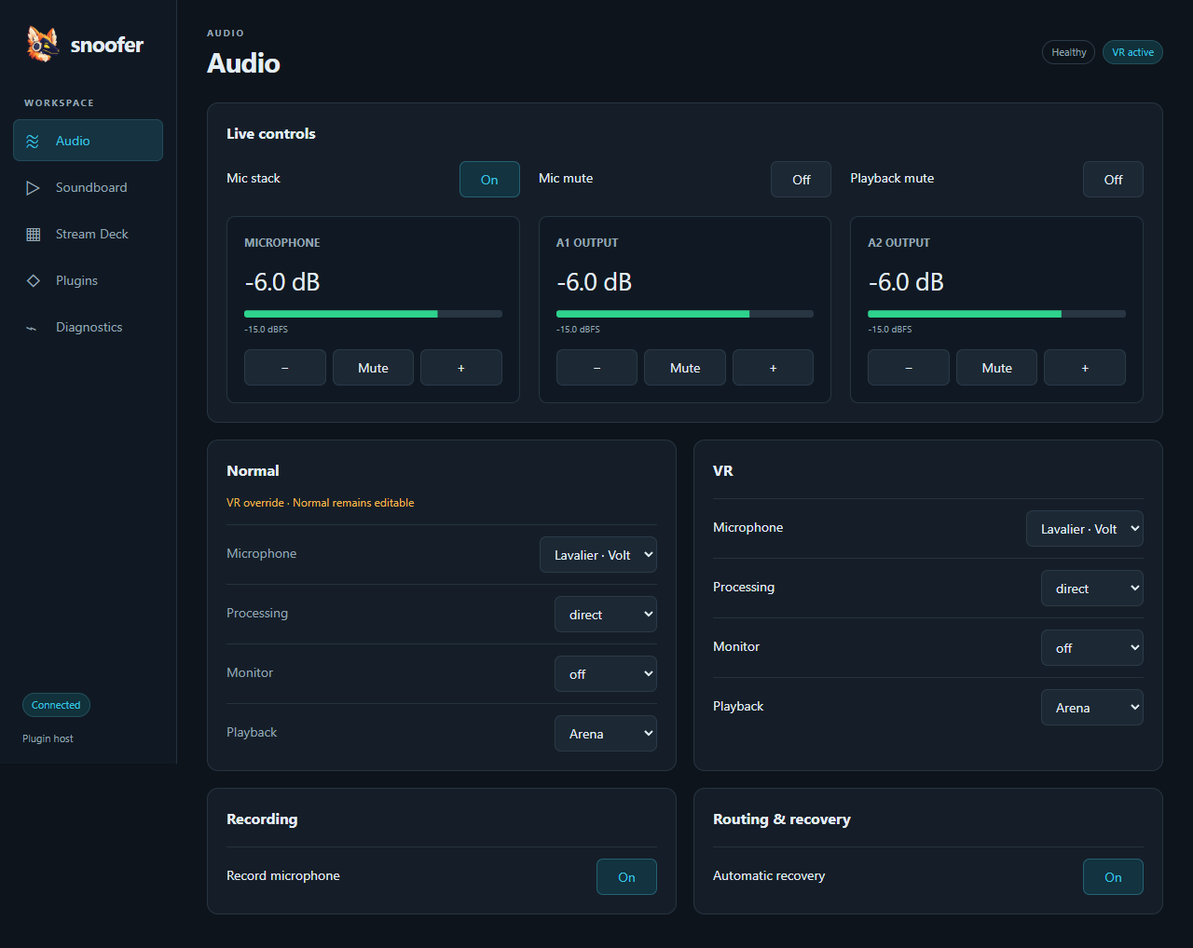
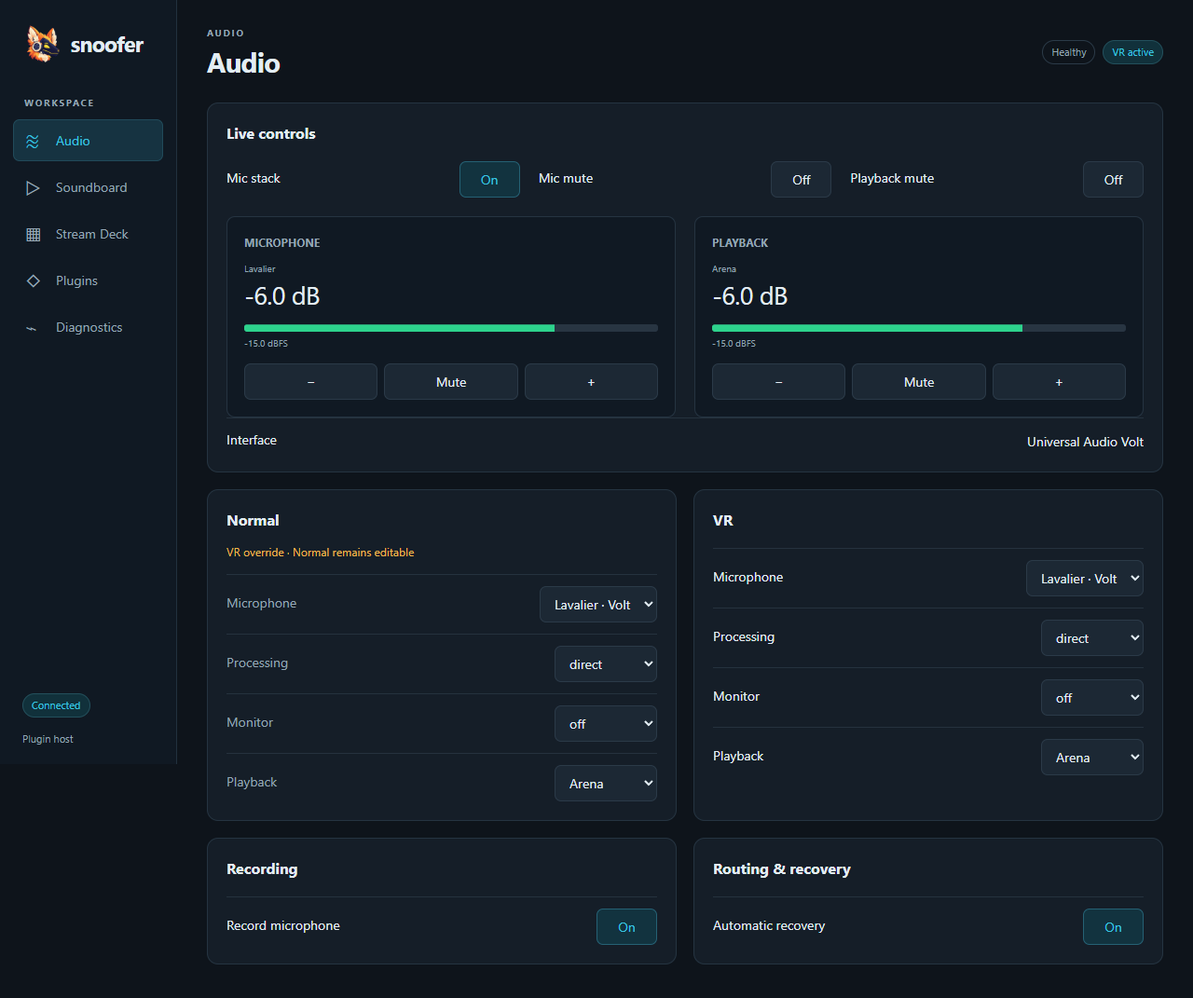
feat(ui): replace output buses with Playback controls

diff --git a/app/web/style.css b/app/web/style.css
@@ -3,7 +3,7 @@ body{margin:0;background:var(--bg);color:var(--text);font:14px/1.5 "Segoe UI",sa
 button,input,select{font:inherit;color:inherit} button,select,input{border:1px solid var(--line);border-radius:7px;background:var(--raised);padding:8px 11px} button{cursor:pointer;transition:background .12s}button:hover{background:#293b4b}button:disabled,select:disabled,input:disabled{opacity:.5;cursor:default} :focus-visible{outline:2px solid var(--cyan);outline-offset:3px} input:focus,select:focus{border-color:var(--cyan)} button.primary{background:var(--cyan);color:#06232b;border-color:transparent;font-weight:650}button.danger{color:var(--red)}button.small{padding:5px 9px}
 .sidebar{width:190px;flex-shrink:0;padding:26px 14px 18px;background:#101923;border-right:1px solid #21313e;height:100vh;position:sticky;top:0;display:flex;flex-direction:column}.brand{display:flex;align-items:center;gap:10px;font-size:23px;letter-spacing:-.7px;margin:0 10px 35px}.brandmark{width:42px;height:42px;object-fit:contain}.nav-caption,.eyebrow{font-size:10px;letter-spacing:1.7px;font-weight:650;color:var(--muted)}.nav-caption{margin:0 12px 10px}nav{display:grid;gap:5px}nav button{text-align:left;background:transparent;border-color:transparent;padding:11px 12px;color:var(--muted);display:flex;gap:13px;align-items:center}nav button span{font-size:21px;width:20px;line-height:1}nav button[aria-current="page"]{color:var(--cyan);background:#163341;border-color:#214a5a}.sidebar-foot{margin-top:auto;padding:20px 10px 0}.sidebar-foot small{display:block;color:var(--muted);font-size:11px;margin-top:14px;line-height:1.6}
 main{flex:1;min-width:0;padding:28px 32px 36px}header{display:flex;align-items:center;justify-content:space-between;gap:16px;margin-bottom:26px}h1{font-size:29px;letter-spacing:-.7px;line-height:1.2;margin:6px 0 0}h2{font-size:16px;margin:0;font-weight:650}h3{font-size:13px;margin:0 0 10px}.header-status{display:flex;gap:8px;align-items:center;flex-wrap:wrap}.badge{font-size:11px;border:1px solid var(--line);padding:4px 9px;border-radius:20px;color:var(--muted);display:inline-block}.active{color:var(--cyan)}.badge.active{background:#11313b;border-color:#23505c}.attention{color:var(--amber)}.critical{color:var(--red)}.muted{color:var(--muted)}
-#notice{padding:12px 16px;border:1px solid #7b4a42;background:#332329;border-radius:8px;margin-bottom:18px;white-space:pre-wrap;color:#ffb7a9;overflow-wrap:anywhere}#notice button{float:right;margin-left:12px}.grid{display:grid;grid-template-columns:repeat(2,minmax(0,1fr));gap:18px}.panel{background:var(--panel);border:1px solid #253441;border-radius:12px;padding:20px;min-width:0}.panel-head{display:flex;align-items:center;justify-content:space-between;gap:10px;margin-bottom:18px}.panel-head small{color:var(--muted)}.wide{grid-column:1/-1}.control-row{display:flex;align-items:center;justify-content:space-between;gap:18px;padding:12px 0;border-top:1px solid #25323e}.control-row:first-child{border-top:0;padding-top:0}.control-row:last-child{padding-bottom:0}.control-label{flex:1;min-width:0}.control-label small{display:block;font-size:11px;margin-top:4px;overflow-wrap:anywhere}.control-row select{max-width:58%;min-width:110px}.text-edit{display:flex;gap:7px;max-width:65%;min-width:0}.text-edit input{flex:1}.control-row input{min-width:0;max-width:200px;width:100%}.control-row .value{overflow-wrap:anywhere;max-width:65%;text-align:right}.toggle{min-width:65px}.toggle[aria-pressed="true"]{color:var(--cyan);background:#12333f;border-color:#256174}.toggle.critical[aria-pressed="true"]{color:var(--red);background:#39252e;border-color:#76424e}.subdued .control-label{color:var(--muted)}.section-note{margin:-5px 0 15px;color:var(--amber);font-size:12px}.quick-controls{display:grid;grid-template-columns:repeat(3,minmax(0,1fr));gap:20px;margin-bottom:20px}.quick-controls .control-row{border:0;padding:0}.strip-grid{display:grid;grid-template-columns:repeat(3,minmax(0,1fr));gap:20px}.strip{background:#101923;border:1px solid #253441;border-radius:9px;padding:18px}.strip h3{font-size:12px;color:var(--muted);margin:0 0 12px}.gain-readout{font-size:27px;letter-spacing:-.5px;font-variant-numeric:tabular-nums}.gain-buttons{display:flex;gap:7px;margin-top:14px}.gain-buttons button{flex:1}.level{height:8px;border-radius:3px;background:#283542;position:relative;overflow:hidden;margin-top:12px}.level-signal{height:100%;width:0;background:linear-gradient(90deg,#2dd28c 0%,#2dd28c 76%,#f5be3c 80%,#ff5a64 98%);clip-path:inset(0 100% 0 0);width:100%}.meter-label{color:var(--muted);font-size:10px;font-variant-numeric:tabular-nums;margin-top:5px}.actions,.toolbar{display:flex;gap:8px;align-items:center;flex-wrap:wrap}.toolbar{margin-bottom:18px}.toolbar input[type=search]{flex:1;min-width:170px}.empty{padding:45px 25px;border:1px dashed var(--line);border-radius:12px;text-align:center;color:var(--muted)}.clip-grid{display:grid;grid-template-columns:repeat(auto-fill,minmax(145px,1fr));gap:14px}.clip{position:relative;display:flex;flex-direction:column;align-items:flex-start;text-align:left;min-height:168px;padding:16px;background:var(--panel);border-radius:12px}.clip-art{height:70px;display:grid;place-items:center;width:100%;margin-bottom:12px;font-size:37px;color:var(--cyan)}.clip-art img{height:64px;width:64px;object-fit:contain}.clip strong{font-size:13px;overflow-wrap:anywhere}.clip small{font-size:11px;color:var(--muted);margin-top:5px}.clip.playing{border-color:var(--cyan);background:#12303a}.clip.error{border-color:var(--red)}.clip.wait{border-color:var(--amber)}
+#notice{padding:12px 16px;border:1px solid #7b4a42;background:#332329;border-radius:8px;margin-bottom:18px;white-space:pre-wrap;color:#ffb7a9;overflow-wrap:anywhere}#notice button{float:right;margin-left:12px}.grid{display:grid;grid-template-columns:repeat(2,minmax(0,1fr));gap:18px}.panel{background:var(--panel);border:1px solid #253441;border-radius:12px;padding:20px;min-width:0}.panel-head{display:flex;align-items:center;justify-content:space-between;gap:10px;margin-bottom:18px}.panel-head small{color:var(--muted)}.wide{grid-column:1/-1}.control-row{display:flex;align-items:center;justify-content:space-between;gap:18px;padding:12px 0;border-top:1px solid #25323e}.control-row:first-child{border-top:0;padding-top:0}.control-row:last-child{padding-bottom:0}.control-label{flex:1;min-width:0}.control-label small{display:block;font-size:11px;margin-top:4px;overflow-wrap:anywhere}.control-row select{max-width:58%;min-width:110px}.text-edit{display:flex;gap:7px;max-width:65%;min-width:0}.text-edit input{flex:1}.control-row input{min-width:0;max-width:200px;width:100%}.control-row .value{overflow-wrap:anywhere;max-width:65%;text-align:right}.toggle{min-width:65px}.toggle[aria-pressed="true"]{color:var(--cyan);background:#12333f;border-color:#256174}.toggle.critical[aria-pressed="true"]{color:var(--red);background:#39252e;border-color:#76424e}.subdued .control-label{color:var(--muted)}.section-note{margin:-5px 0 15px;color:var(--amber);font-size:12px}.quick-controls{display:grid;grid-template-columns:repeat(3,minmax(0,1fr));gap:20px;margin-bottom:20px}.quick-controls .control-row{border:0;padding:0}.strip-grid{display:grid;grid-template-columns:repeat(2,minmax(0,1fr));gap:20px}.strip{background:#101923;border:1px solid #253441;border-radius:9px;padding:18px}.strip h3{font-size:12px;color:var(--muted);margin:0 0 12px}.gain-readout{font-size:27px;letter-spacing:-.5px;font-variant-numeric:tabular-nums}.gain-buttons{display:flex;gap:7px;margin-top:14px}.gain-buttons button{flex:1}.level{height:8px;border-radius:3px;background:#283542;position:relative;overflow:hidden;margin-top:12px}.level-signal{height:100%;width:0;background:linear-gradient(90deg,#2dd28c 0%,#2dd28c 76%,#f5be3c 80%,#ff5a64 98%);clip-path:inset(0 100% 0 0);width:100%}.meter-label{color:var(--muted);font-size:10px;font-variant-numeric:tabular-nums;margin-top:5px}.actions,.toolbar{display:flex;gap:8px;align-items:center;flex-wrap:wrap}.toolbar{margin-bottom:18px}.toolbar input[type=search]{flex:1;min-width:170px}.empty{padding:45px 25px;border:1px dashed var(--line);border-radius:12px;text-align:center;color:var(--muted)}.clip-grid{display:grid;grid-template-columns:repeat(auto-fill,minmax(145px,1fr));gap:14px}.clip{position:relative;display:flex;flex-direction:column;align-items:flex-start;text-align:left;min-height:168px;padding:16px;background:var(--panel);border-radius:12px}.clip-art{height:70px;display:grid;place-items:center;width:100%;margin-bottom:12px;font-size:37px;color:var(--cyan)}.clip-art img{height:64px;width:64px;object-fit:contain}.clip strong{font-size:13px;overflow-wrap:anywhere}.clip small{font-size:11px;color:var(--muted);margin-top:5px}.clip.playing{border-color:var(--cyan);background:#12303a}.clip.error{border-color:var(--red)}.clip.wait{border-color:var(--amber)}
 .deck-workspace{display:grid;grid-template-columns:minmax(0,1fr) 280px;gap:18px;align-items:start}.deck-preview{background:#0a1017;border:1px solid #2e414f;border-radius:18px;padding:19px;margin-bottom:20px}.deck-keys{display:grid;grid-template-columns:repeat(9,minmax(0,1fr));gap:7px}.deck-key{aspect-ratio:1;min-width:0;padding:5px 3px;font-size:9px;border-radius:7px;background:#15222e;position:relative;display:flex;flex-direction:column;justify-content:center;align-items:center;overflow:hidden}.deck-key .slot-name{max-width:100%;overflow:hidden;text-overflow:ellipsis;white-space:nowrap}.deck-key small{font-size:8px;color:var(--muted);position:absolute;left:4px;top:2px}.deck-key img{width:30px;height:30px;object-fit:contain}.deck-key .slot-icon{font-size:20px;line-height:1.2;color:var(--cyan)}.deck-key.empty-slot{background:#101820;border-color:#1c2a36}.deck-key[aria-pressed="true"],.dial[aria-pressed="true"]{border:2px solid var(--cyan);box-shadow:0 0 0 2px #183a46}.deck-dials{display:grid;grid-template-columns:repeat(6,minmax(0,1fr));gap:8px;margin-top:22px}.dial{font-size:10px;min-width:0;min-height:62px;padding:7px 4px;background:#15222e;display:flex;align-items:center;flex-direction:column;justify-content:center}.dial::before{content:"";border:2px solid #60798a;width:18px;height:18px;border-radius:50%;margin-bottom:5px}.dial span{max-width:100%;overflow:hidden;text-overflow:ellipsis;white-space:nowrap}.slot-source{font-size:8px;color:var(--amber)}.inspector{position:sticky;top:20px}.inspector input,.inspector select{width:100%;max-width:none}.inspector select{font-size:12px;margin:10px 0;min-height:220px}.inspector option{padding:7px;white-space:normal}.inspector .control-row{display:block}.inspector .control-row label{display:block;margin-bottom:7px}.inspector .control-row input{max-width:none}.savebar{display:flex;justify-content:space-between;gap:12px;align-items:center;padding:14px 18px;background:#192a36;border:1px solid #345365;border-radius:10px;margin-top:18px;position:sticky;bottom:12px}.savebar p{margin:0;font-size:12px}.page-tools{display:grid;gap:12px}.page-tools .control-row{padding:8px 0}.page-tools .actions{justify-content:flex-end}details{margin-top:16px}summary{cursor:pointer;color:var(--muted);padding:7px 0}.plugin-card{display:flex;justify-content:space-between;align-items:center;gap:20px;margin-bottom:12px}.plugin-card p{margin:5px 0 0;font-size:12px;overflow-wrap:anywhere}.diagnostic{white-space:pre-wrap;overflow-wrap:anywhere;font-size:13px}.diagnostic p{margin:8px 0;color:var(--muted)}dialog{background:var(--panel);color:var(--text);border:1px solid var(--line);border-radius:14px;max-width:500px;padding:25px}dialog::backdrop{background:#000a}dialog p{white-space:pre-wrap;overflow-wrap:anywhere}dialog .actions{justify-content:flex-end;margin-top:25px}
 @media(min-width:1500px){.deck-workspace{grid-template-columns:minmax(0,1fr) 330px}.deck-key{font-size:12px}.deck-key img{width:48px;height:48px}.deck-key .slot-icon{font-size:30px}.clip-grid{grid-template-columns:repeat(auto-fill,minmax(170px,1fr))}}
 @media(max-width:1120px){.sidebar{width:164px;padding:22px 10px}.brand{font-size:21px}main{padding:24px 20px}.deck-workspace{grid-template-columns:minmax(0,1fr)}.inspector{position:static}.inspector select{min-height:150px}.deck-key{font-size:11px}.grid{gap:14px}.panel{padding:16px}}

diff --git a/app/web/app.js b/app/web/app.js
@@ -87,17 +87,18 @@ function control(id,parent,label) {
 function mixer(id,parent,title) {
  if(!c(id))return;
  const node=el("div","strip"), value=el("div","gain-readout"),bar=el("div","level"),signal=el("div","level-signal"),text=el("div","meter-label"),actions=el("div","gain-buttons");
- node.append(el("h3","",title),value);bar.append(signal);node.append(bar,text,actions);
+ const device=el("div","meter-label");
+ node.append(el("h3","",title),device,value);bar.append(signal);node.append(bar,text,actions);
  actions.append(button("−",()=>request(c(id),"adjust","",-1)),button("0 dB",()=>press(id)),button("+",()=>request(c(id),"adjust","",1)));
  // Only soundboard's press means reset; audio gain press retains its existing mute behavior.
  if(id!=="soundboard.volume"){actions.children[1].textContent="Mute";actions.children[1].title="Toggle mute";}
  parent.append(node);
  updaters.push(()=>{
-  const control=c(id);value.textContent=control ? display(control) : "Unavailable";
+  const control=c(id);device.textContent=id==="audio.gain-playback"?(c("audio.playback-device")?.Value||""):id==="audio.gain-mic"?(c("audio.mic-device")?.Value||""):"";device.hidden=!device.textContent;value.textContent=control ? display(control) : "Unavailable";
   const db=meterValue(control?.Meter);
   signal.style.clipPath="inset(0 "+(db===null?100:-(db/60)*100)+"% 0 0)";
   text.textContent=db===null?"LEVEL N/A":db.toFixed(1)+" dBFS";
-  const muteID={"audio.gain-mic":"audio.mic-mute","audio.gain-A1":"audio.a1-mute","audio.gain-A2":"audio.a2-mute"}[id];
+  const muteID={"audio.gain-mic":"audio.mic-mute","audio.gain-playback":"audio.speaker-mute"}[id];
   if(muteID){
    const muted=c(muteID)?.Value==="On";
    actions.children[1].className=muted?"toggle critical":"toggle";
@@ -112,8 +113,8 @@ function buildAudio() {
  const live=panel("Live controls",grid,"wide"), top=el("div","quick-controls"), strips=el("div","strip-grid");
  live.append(top);control("audio.mic-stack",top,"Mic stack");control("audio.mic-mute",top,"Mic mute");control("audio.speaker-mute",top,"Playback mute");
  live.append(strips);
- mixer("audio.gain-mic",strips,"MICROPHONE");mixer("audio.gain-A1",strips,"A1 OUTPUT");mixer("audio.gain-A2",strips,"A2 OUTPUT");
- const used=new Set(["audio.health","audio.mic-stack","audio.mic-mute","audio.speaker-mute","audio.gain-mic","audio.gain-A1","audio.gain-A2"]);
+ mixer("audio.gain-mic",strips,"MICROPHONE");mixer("audio.gain-playback",strips,"PLAYBACK");control("audio.interface",live,"Interface");
+ const used=new Set(["audio.health","audio.mic-stack","audio.mic-mute","audio.speaker-mute","audio.gain-mic","audio.gain-playback","audio.interface","audio.playback-device"]);
  for(const [title,prefix] of [["Normal","audio.normal-"],["VR","audio.vr-profile-"]]){
   if(!c(prefix+"source"))continue;
   const card=panel(title,grid), note=el("p","section-note");card.append(note);
@@ -243,7 +244,7 @@ function commandFallback(parent){
 }
 function buildDiagnostics(){
  const toolbar=el("div","toolbar");toolbar.append(button("Retry plugins",()=>send({Kind:"retry"})));root.append(toolbar);
- const card=panel("Audio engine",root);control("audio.health",card);
+ const card=panel("Audio engine",root);control("audio.health",card);control("audio.interface",card);control("audio.asio-unavailable",card);
  const details=el("section","panel diagnostic");details.style.marginTop="18px";root.append(details);
  updaters.push(()=>{
   details.replaceChildren(el("h2","","Current notices"));

diff --git a/plugins/audio/audio.go b/plugins/audio/audio.go
@@ -209,6 +209,41 @@ func controls(s control.State) []snoofer.Control {
 	if i == nil {
 		i = s.Intent
 	}
+	interfaceName, playbackName, micName := "None", "Unavailable", "Unavailable"
+	interfaceStatus := ""
+	if s.Plan != nil && s.Plan.Topology != nil {
+		t := s.Plan.Topology
+		if t.Voice != nil {
+			micName = t.Voice.Effective
+			if label := s.ChoiceLabels[micName]; label != "" {
+				micName = label
+			}
+			if label := map[string]string{"desk": "Desk", "lav": "Lavalier", "webcam": "Webcam", "off": "Off"}[micName]; label != "" {
+				micName = label
+			}
+		}
+		if t.ASIOName != "" {
+			interfaceName = t.ASIOName
+			if s.Snapshot.Assignments["A1"] != interfaceName {
+				interfaceStatus = "Pending"
+			}
+		}
+		if t.PlaybackTarget != "" {
+			playbackName = s.Snapshot.Assignments[t.PlaybackTarget]
+		}
+		if len(t.ASIOUnavailable) > 0 {
+			add("asio-unavailable", "Unavailable interfaces", "Diagnostics", "status", strings.Join(t.ASIOUnavailable, ", ")+" · ASIO owned by "+t.ASIOName, nil)
+		}
+	}
+	if !s.Connected {
+		interfaceName, playbackName, micName = "Unknown", "Unknown", "Unknown"
+	}
+	add("interface", "Interface", "System", "status", interfaceName, nil)
+	if s.Connected {
+		out[len(out)-1].Status = interfaceStatus
+	}
+	add("playback-device", "Playback device", "System", "status", playbackName, nil)
+	add("mic-device", "Microphone", "System", "status", micName, nil)
 	activeTarget := s.Intent.Source
 	activeOptions := s.MicOptions
 	if s.Profile == "VR" && s.Intent.VRProfile != nil {
@@ -267,7 +302,7 @@ func controls(s control.State) []snoofer.Control {
 		}
 		add("gain-"+target, map[string]string{"playback": "Playback", "mic": "Mic"}[target], "Shared audio", "numeric", value, nil, "adjust", "press")
 		level, known := s.Levels[parameter]
-		known = known && level >= 0 && !math.IsNaN(float64(level)) && !math.IsInf(float64(level), 0)
+		known = known && controller.GainIdentity(s.Plan, s.Snapshot, target) != "" && level >= 0 && !math.IsNaN(float64(level)) && !math.IsInf(float64(level), 0)
 		db := -60.0
 		if known && level > 0 {
 			db = max(-60, 20*math.Log10(float64(level)))
@@ -293,7 +328,7 @@ func controls(s control.State) []snoofer.Control {
 	}
 	for n := range out {
 		out[n].Epoch = s.Revision
-		out[n].SurfaceOnly = out[n].Group == "Transport" || out[n].Group == "Bindings"
+		out[n].SurfaceOnly = out[n].Group == "Transport" || out[n].Group == "Bindings" || out[n].Group == "Diagnostics" || out[n].ID == "audio.playback-device" || out[n].ID == "audio.mic-device"
 		out[n].OptionLabels = map[string]string{"auto": "Automatic", "": "Automatic", "desk": "Desk microphone", "lav": "Lavalier", "webcam": "Webcam microphone"}
 		for id, label := range s.ChoiceLabels {
 			out[n].OptionLabels[id] = label

diff --git a/internal/routing/studio.go b/internal/routing/studio.go
@@ -19,15 +19,17 @@ type Operation struct {
 	Change      bool          `json:"change"`
 }
 type Topology struct {
-	MicStrips      []int            `json:"mic_strips,omitempty"`
-	Recording      *RecordingStatus `json:"recording,omitempty"`
-	Voice          *VoiceStatus     `json:"voice,omitempty"`
-	Transition     []Operation      `json:"transition,omitempty"`
-	ASIOActive     bool             `json:"asio_active"`
-	PlaybackTarget string           `json:"playback_target,omitempty"`
-	Operations     []Operation      `json:"operations"`
-	Unresolved     []string         `json:"unresolved,omitempty"`
-	InventoryKey   string           `json:"-"`
+	ASIOName        string           `json:"asio_name,omitempty"`
+	ASIOUnavailable []string         `json:"asio_unavailable,omitempty"`
+	MicStrips       []int            `json:"mic_strips,omitempty"`
+	Recording       *RecordingStatus `json:"recording,omitempty"`
+	Voice           *VoiceStatus     `json:"voice,omitempty"`
+	Transition      []Operation      `json:"transition,omitempty"`
+	ASIOActive      bool             `json:"asio_active"`
+	PlaybackTarget  string           `json:"playback_target,omitempty"`
+	Operations      []Operation      `json:"operations"`
+	Unresolved      []string         `json:"unresolved,omitempty"`
+	InventoryKey    string           `json:"-"`
 }
 
 func (t *Topology) Key() string {
@@ -96,6 +98,15 @@ func buildStudio(c config.Config, s model.Snapshot) (Plan, error) {
 		return p, err
 	}
 	t.ASIOActive = asio != nil
+	if asio != nil {
+		t.ASIOName = asio.Name
+		for n := range profile.ASIO {
+			other, err := matchInterface(&profile.ASIO[n], s)
+			if err == nil && other != nil && other.Name != asio.Name {
+				t.ASIOUnavailable = append(t.ASIOUnavailable, other.Name)
+			}
+		}
+	}
 	ownsPlayback := func(name string) bool {
 		if name == "" {
 			return false

diff --git a/plugins/audio/playback_test.go b/plugins/audio/playback_test.go
@@ -1,0 +1,44 @@
+package audio
+
+import (
+	"testing"
+	"time"
+
+	"sound-snoofer/internal/config"
+	"sound-snoofer/internal/control"
+	"sound-snoofer/internal/model"
+	"sound-snoofer/internal/routing"
+	"sound-snoofer/snoofer"
+)
+
+func TestSemanticPlaybackControlAndRequestedMute(t *testing.T) {
+	s := control.State{Live: true, Connected: true, Intent: &config.Intent{PlaybackMuted: false}, LevelsAt: time.Now(), Levels: map[string]float32{"Bus[2].Gain": 0.5},
+		Snapshot: model.Snapshot{Assignments: map[string]string{"A3": "Phones"}, Numbers: map[string]float32{"Bus[2].Gain": -3, "Bus[2].Mute": 1}},
+		Plan:     &routing.Plan{Topology: &routing.Topology{PlaybackTarget: "A3"}}}
+	var gain snoofer.Control
+	for _, c := range controls(s) {
+		switch c.ID {
+		case "audio.a1-mute", "audio.a2-mute", "audio.gain-A1", "audio.gain-A2":
+			t.Fatal("physical bus control leaked", c.ID)
+		case "audio.gain-playback":
+			gain = c
+		case "audio.speaker-mute":
+			if c.Value != "Off" || c.Status != "Pending" {
+				t.Fatal("native mute replaced requested state", c)
+			}
+		}
+	}
+	if !gain.Available || !gain.Meter.Known || gain.ShortLabel != "Playback" || gain.Value != "-3.0 dB" {
+		t.Fatal(gain)
+	}
+	a, err := action(s, snoofer.Request{ID: gain.ID, Operation: "press"})
+	if err != nil || a.Row != "speaker-mute" || a.Value != "true" {
+		t.Fatal(a, err)
+	}
+	s.Plan.Topology.PlaybackTarget = ""
+	for _, c := range controls(s) {
+		if c.ID == gain.ID && (c.Available || c.Meter.Known) {
+			t.Fatal("unavailable playback actionable", c)
+		}
+	}
+}

diff --git a/plugins/streamdeck/default.go b/plugins/streamdeck/default.go
@@ -1,12 +1,12 @@
 package streamdeck
 
-// DefaultLayout preserves the useful Studio keys and first three gain dials.
+// DefaultLayout preserves the useful Studio keys, Playback dial and microphone position.
 func DefaultLayout() Layout {
 	p := Page{ID: "home", Name: "Home"}
 	for n, id := range map[int]string{0: "audio.mic-mute", 1: "audio.speaker-mute", 2: "audio.monitor", 3: "audio.mode", 8: "core.open-controls", 9: "audio.record-toggle", 11: "audio.record-mic", 12: "audio.record-computer", 13: "audio.record-tap", 27: "media.prev", 28: "media.play", 29: "media.next"} {
 		p.Keys[n] = Binding{Control: id, Label: id}
 	}
-	for n, id := range []string{"audio.gain-A1", "audio.gain-A2", "audio.gain-mic"} {
+	for n, id := range map[int]string{0: "audio.gain-playback", 2: "audio.gain-mic"} {
 		p.Dials[n] = Binding{Control: id, Label: id}
 	}
 	return Layout{Home: "home", Pages: []Page{p}}

diff --git a/AGENTS.md b/AGENTS.md
@@ -86,10 +86,9 @@ provides more specific guidance. Explicit user instructions take precedence.
 - Mic stack disabled disconnects all managed mic and Element-return sends while retaining Normal/VR targets. It must
   not disable computer playback/capture or operate recorder transport.
 - Disabling also clears managed microphone input assignments and ASIO input patches;
-  Volt remains assigned to A1 and playback retains its normal output.
-- Volt ASIO owns A1 when active. Physical channel 1 feeds stereo input 1 (L/R),
-  channel 2 feeds stereo input 2 (L/R). Playback takes the lowest free output and
-  its routing follows that output. Selecting Volt itself for playback reuses reserved
+  the selected ASIO interface remains assigned to A1 and playback retains its normal output.
+- ASIO priority selects one interface for A1 before microphone/playback selection. Only that interface supplies eligible ASIO inputs/outputs. Per-interface desk/lav channel mappings feed stereo inputs 1/2 (L/R); zero means unavailable. Playback takes the lowest free output and
+  its routing follows that output. Selecting the loaded ASIO interface for playback reuses reserved
   ASIO A1; other playback devices still use the lowest free output. Device matching
   uses Go regular expressions.
 - Treat presence, absence and ambiguous matches distinctly; installed ASIO
@@ -210,3 +209,5 @@ when an icon makes the full label redundant. See internal/streamdeck/AGENTS.md f
 the Stream Deck graphics and copy rules.
 
 Before changing any UI, read docs/ui-contract.md. It is the shared baseline for goals, tone, content, vocabulary, color semantics and stable interaction/layout rules. Routine builds must not alter that baseline. Update the contract and focused presentation tests for intentional UX changes; retain unrelated behavior and verify actual renderer output.
+
+Playback gain/meter follows the resolved listening destination. Never copy, persist or reset gains during routing. Playback mute is persisted application intent, imposed and verified in both directions; native mute must not overwrite that preference. Fixed A1/A2 controls are not user-facing controls.

diff --git a/docs/asio-playback.md b/docs/asio-playback.md
@@ -1,0 +1,25 @@
+# Interface and playback
+
+The audio plugin resolves `studio.asio` in priority order before microphone and playback. The first uniquely present interface owns A1 and the clock. Installed ASIO drivers alone do not establish hardware presence.
+
+Each entry contains `asio_pattern` (driver name), `presence_pattern` (physical WDM input name), and `inputs`: the desk and lav mono channels, each patched to both stereo sides. Zero means that microphone is unavailable on this interface. These are the existing two managed ASIO microphone strips.
+
+```json
+"asio": [
+  {
+    "asio_pattern": "(?i)^Universal Audio Volt$",
+    "presence_pattern": "(?i)^INPUT 1/2 \\(Volt 2\\)$",
+    "inputs": [1, 2]
+  }
+],
+"playback": [
+  {"driver": "wdm", "pattern": "(?i)steelseries.*arena"},
+  {"driver": "asio", "pattern": "(?i)^Universal Audio Volt$"}
+]
+```
+
+An empty ASIO list disables interface selection. Ambiguous matches stop routing rather than guessing. Unselected interfaces supply neither ASIO microphones nor ASIO playback, even if connected. Give a speaker-only interface `[0, 0]`; microphone priorities then fall through to webcam or the next eligible source. Normal and VR retain separate downstream priorities and runtime overrides. Interface priority is global.
+
+Playback gain/meter and mute follow the selected listening destination, whichever bus it occupies. Routing never copies or resets gain. Playback mute is saved in Snoofer and imposed on Voicemeeter, including unmute. Native readback confirms or disputes that request; it never changes the preference.
+
+This is a configuration changeover: remove the former top-level studio `asio_pattern`, `presence_pattern` and `asio_playback`; place ASIO in the ordinary playback list at the desired priority. Remove saved `bus_muted` and retain the intended effective playback mute as `playback_muted`. Replace fixed output dial bindings with `audio.gain-playback` and clear redundant bindings. Keep `audio.speaker-mute` as the semantic Playback mute binding.

diff --git a/docs/ui-contract.md b/docs/ui-contract.md
@@ -31,7 +31,7 @@ Provider Label identifies an action without an icon. Optional ShortLabel is for 
 | Recorder transport | Record / Stop rec; Ready / Rec |
 | Media transport | Prev / Play / Next / Stop; no fictitious playback state |
 | Soundboard | Filename / Stop; Ready / Playing (cyan), Wait during normalization; failures stay local to the clip |
-| Gain | A1 / A2 / Mic; numeric dB and meter |
+| Gain | Playback / Mic; numeric dB and meter |
 | Soundboard gain | Volume; numeric dB; press resets to 0 dB |
 | Pending | Wait |
 | Unavailable or unknown | N/A; meter LEVEL N/A |
@@ -87,3 +87,6 @@ Page dial reference:
 
 ## Personal Home layout
 Open controls occupies key 31 (zero-based; bottom row, fifth column). The rightmost four columns are empty across all four rows. This is a user-owned layout choice; do not relocate it during builds or overwrite other users' layouts.
+
+## Playback and interface
+Interface is the global ASIO clock/input/output selection. Playback is the active listening destination; A1/A2 belong only in diagnostics. Use one Playback dial/mixer with destination name in the GUI. Preserve the mic dial position and leave the former second output dial empty. Gain changes only on explicit adjustment; routing never copies or resets gains. Playback mute is Snoofer-owned persisted desired state; native disagreement is pending, never a replacement preference.
